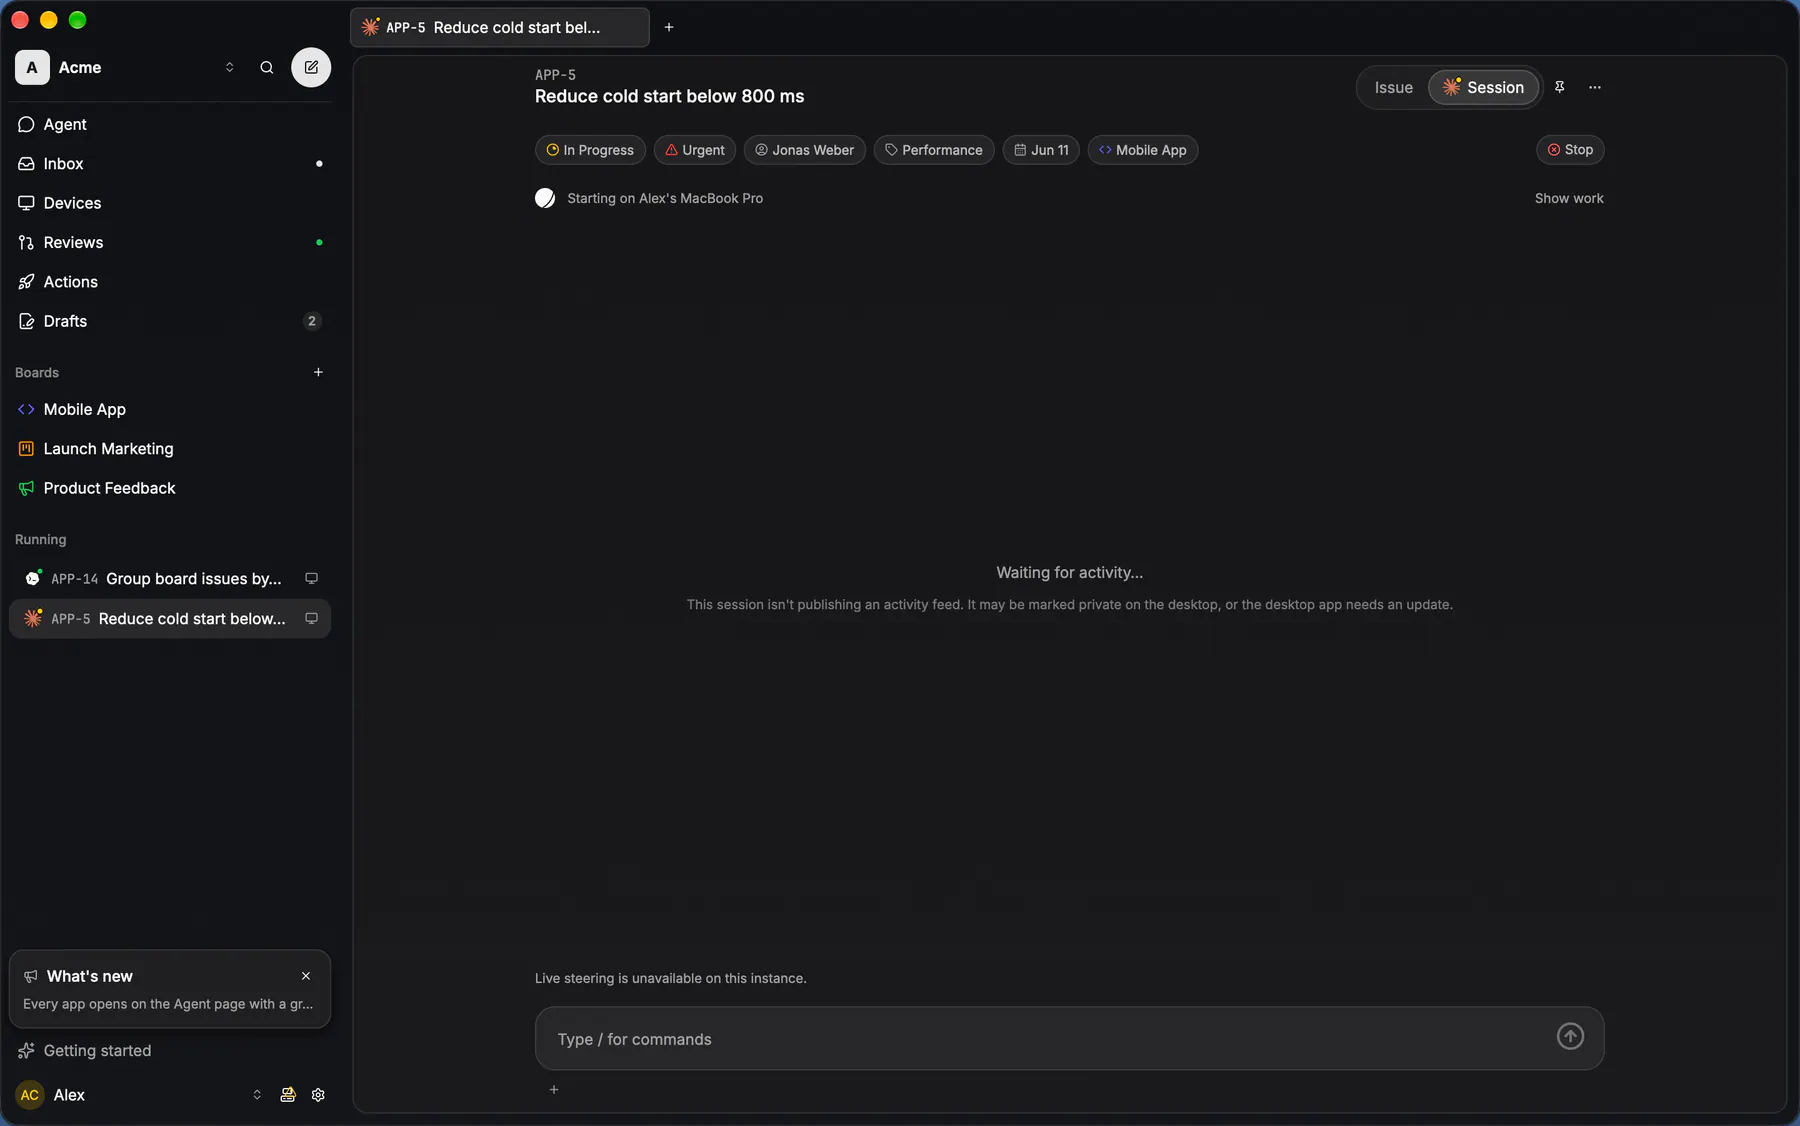
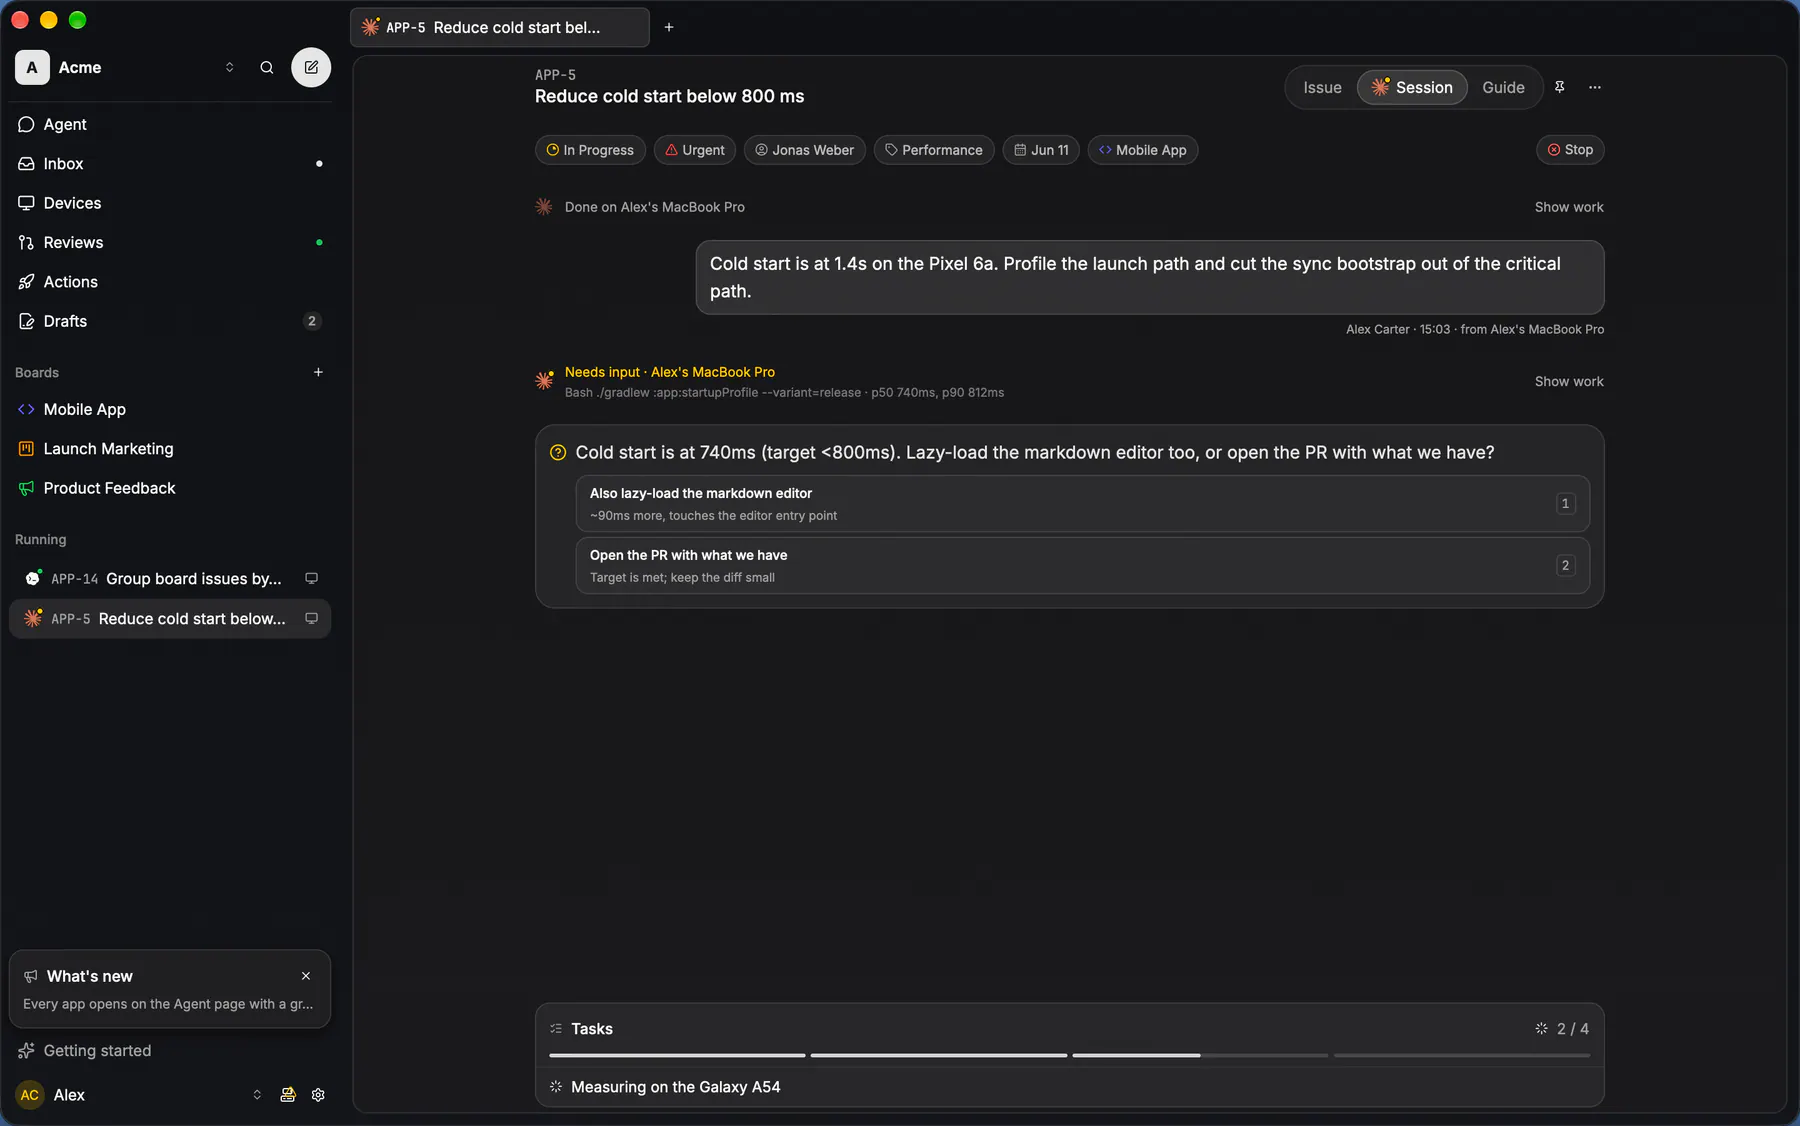
Desktop: a session tab that exists at boot dials the relay once an account is active (it stayed unavailable forever); desktop steering, work-card and comment-call-card captures

diff --git a/packages/shots/src/affected.test.ts b/packages/shots/src/affected.test.ts
@@ -136,12 +136,11 @@ describe(`desktop attribution`, () => {
   test(`the session screen narrows to the session it draws`, () => {
     // `_screen` is a wrapper suffix like `_dialog`: `session_screen.rs` is the
     // steering view's own module, not the auth glue `session.rs` names.
-    // EXP-1204: `run-changes` is the same screen on its Diff face, so it
-    // rides along; nothing else does. (EXP-1259's transcript cards,
-    // `work-card` & co, have no desktop drive while the viewer cannot dial
-    // from a boot-opened tab; see their catalog notes.)
+    // EXP-1204: `run-changes` is the same screen on its Diff face, and
+    // EXP-1259's `work-card` and `comment-call-card` are its transcript with
+    // Show work on, so they ride along; nothing else does.
     const result = scope(`apps/desktop/crates/ui/src/session_screen.rs`)
-    expect(views(result, `desktop`)).toEqual([`steering`, `run-changes`])
+    expect(views(result, `desktop`)).toEqual([`steering`, `work-card`, `comment-call-card`, `run-changes`])
   })
 
   test(`a component reused across screens still widens`, () => {
@@ -705,8 +704,9 @@ describe(`fail-safe`, () => {
     })
     expect(named.broad).toEqual([])
     // EXP-1204: the two ui modules also draw `run-changes` (the run's Diff
-    // face); the engine and feed files alone claim the feed-drawn shot.
-    expect(named.byPlatform.get(`desktop`)).toEqual([`steering`, `run-changes`])
+    // face) and EXP-1259's transcript cards (Show work on); the engine and
+    // feed files alone claim the feed-drawn shots.
+    expect(named.byPlatform.get(`desktop`)).toEqual([`steering`, `work-card`, `comment-call-card`, `run-changes`])
     const feedOnly = affectedScope({
       changedFiles: [
         `apps/desktop/crates/steer/src/viewer.rs`,
@@ -715,7 +715,7 @@ describe(`fail-safe`, () => {
       platforms: [`desktop`],
       includeMissing: false,
     })
-    expect(feedOnly.byPlatform.get(`desktop`)).toEqual([`steering`])
+    expect(feedOnly.byPlatform.get(`desktop`)).toEqual([`steering`, `work-card`, `comment-call-card`])
 
     // A grid picker rides the feed AND draws into the PTY grid, so it claims
     // both views rather than narrowing to one of them.

diff --git a/packages/shots/src/affected.ts b/packages/shots/src/affected.ts
@@ -287,11 +287,12 @@ const DESKTOP_FAMILIES: { test: RegExp; views: RegExp; why: string }[] = [
     // the steer crate's viewer/feed/wire types, and the two ui modules that
     // draw the tab (`session_screen.rs` renders it, `steer_viewer.rs` is the
     // relay-fed feed behind it when this process hosts no engine — which is
-    // exactly how the shot is captured, EXP-732). EXP-1259: `work-card` is
-    // the same session's transcript (Show work on), its cards built off the
-    // same feed.
+    // exactly how the shot is captured, EXP-732). EXP-1259: `work-card` and
+    // `comment-call-card` are the same session's transcript (Show work on),
+    // their cards built off the same feed (`script-card` has no desktop
+    // drive: its card sits above the fold).
     test: /^apps\/desktop\/crates\/(engine\/src\/|steer\/src\/(viewer|feed|frames|journal)\.rs)/,
-    views: /^(steering|work-card)$/,
+    views: /^(steering|work-card|comment-call-card)$/,
     why: `the coding-session screen and its feed`,
   },
   {
@@ -299,9 +300,10 @@ const DESKTOP_FAMILIES: { test: RegExp; views: RegExp; why: string }[] = [
     // is the SAME screen on its Diff face (`steer_viewer.rs`'s
     // `load_pr_changes` fetches an issue-less run's PR files, `session_screen`
     // frames it), so a change to either claims both shots; the engine and the
-    // feed above never reach that face.
+    // feed above never reach that face. EXP-1259: the transcript's cards
+    // (Show work on) are drawn by the same two modules.
     test: /^apps\/desktop\/crates\/ui\/src\/(session_screen|steer_viewer)\.rs/,
-    views: /^(steering|run-changes)$/,
+    views: /^(steering|run-changes|work-card|comment-call-card)$/,
     why: `the coding-session screen on both its faces`,
   },
   {

diff --git a/packages/shots/src/capture-all.ts b/packages/shots/src/capture-all.ts
@@ -134,6 +134,7 @@ const FLEET_VIEWS = new Set([
   `composer-menu`,
   `steering`,
   `work-card`,
+  `comment-call-card`,
   `action-page`,
   `action-create`,
   `action-triggers`,

diff --git a/apps/desktop/crates/ui/src/steer_viewer.rs b/apps/desktop/crates/ui/src/steer_viewer.rs
@@ -326,6 +326,35 @@ impl FeedSource {
     }
 }
 
+/// The detail a `Remote` view shows while it has nothing to dial with (no
+/// steer runtime, nobody signed in). A relay that is OFF answers the mint
+/// with the same words from the viewer task, so both read alike.
+const STEER_UNAVAILABLE_DETAIL: &str = "Live steering is unavailable on this instance.";
+
+/// A `Remote` view built before an account is active (a session tab that
+/// exists at boot: a restored layout, `EXP_DEV_SCREEN=session:<id>`) cannot
+/// dial yet. It keeps the feed's sender here and retries on every session
+/// edge until a dial succeeds; after that the socket owns reconnects and
+/// this stays empty.
+struct PendingDial(Option<flume::Sender<ViewerEvent>>);
+
+impl PendingDial {
+    fn is_pending(&self) -> bool {
+        self.0.is_some()
+    }
+
+    /// Dial with a clone of the sender. A failed attempt keeps it for the
+    /// next edge; a successful one consumes it, so a source dials ONCE.
+    fn attempt<H>(
+        &mut self,
+        dial: impl FnOnce(flume::Sender<ViewerEvent>) -> Option<H>,
+    ) -> Option<H> {
+        let handle = dial(self.0.as_ref()?.clone())?;
+        self.0 = None;
+        Some(handle)
+    }
+}
+
 /// EXP-895 — the fallback files for a run that published no diff, and the
 /// `issue:has-pr` key they were fetched for (a re-point or a PR opening
 /// re-fetches; a repaint never does).
@@ -382,6 +411,9 @@ pub(crate) struct SteerSessionView {
     feed: SteerFeed,
     /// EXP-746: what drives the feed. The relay handle lives inside it.
     source: FeedSource,
+    /// A `Remote` source with no handle yet: dialled once an account is
+    /// active (see [`PendingDial`]).
+    pending_dial: PendingDial,
     /// EXP-1051: whether the usage sheet's context-window LEGEND is unfolded.
     /// View state, not run state: the bar and its headline are always there,
     /// the per-layer breakdown is one click away and stays where the reader
@@ -710,6 +742,9 @@ impl SteerSessionView {
             // viewer's.
             subscriptions.push(cx.observe(&shared_state, |this, _, cx| {
                 this.note_network_edge(cx);
+                // …and the session edge itself: a tab built before anyone
+                // was signed in dials the moment an account is active.
+                this.dial_pending(cx);
             }));
         }
         // …#3: the window came forward — the desktop's `visibilitychange`.
@@ -743,6 +778,7 @@ impl SteerSessionView {
             row: None,
             feed: SteerFeed::new(),
             source,
+            pending_dial: PendingDial(None),
             context_legend_open: false,
             phase: ViewerPhase::Connecting,
             connected: false,
@@ -852,15 +888,9 @@ impl SteerSessionView {
         // Only the relay source dials — and only when the caller did not hand
         // one in. A local source subscribes to its engine instead: same
         // reducer, same rendering, no socket.
-        if let FeedSource::Remote { handle } = &mut this.source {
-            if handle.is_none() {
-                *handle = spawn_viewer(&session_id, events_tx, cx);
-            }
-            if handle.is_none() {
-                this.phase = ViewerPhase::Unauthorized {
-                    detail: Some("Live steering is unavailable on this instance.".to_string()),
-                };
-            }
+        if let FeedSource::Remote { handle: None } = &this.source {
+            this.pending_dial = PendingDial(Some(events_tx));
+            this.dial_pending(cx);
         }
         // EXP-773: a journal source is the whole transcript, already on disk.
         // Fold it into the SAME reducer the wire feeds, then mark the run
@@ -1694,6 +1724,33 @@ impl SteerSessionView {
         let offline = sync_offline(cx);
         if std::mem::replace(&mut self.sync_offline, offline) && !offline {
             self.wake("network back");
+        }
+    }
+
+    /// Dial a `Remote` source that has no socket yet. Until it can (no
+    /// steer runtime, nobody signed in) the view says steering is
+    /// unavailable; the first successful dial clears that back to
+    /// `Connecting`, and from there the viewer task reports the relay's own
+    /// answer (a relay that is off says the same words, for good).
+    fn dial_pending(&mut self, cx: &mut gpui::Context<Self>) {
+        if !self.pending_dial.is_pending() {
+            return;
+        }
+        let FeedSource::Remote { handle } = &mut self.source else {
+            return;
+        };
+        let session_id = self.session_id.clone();
+        match self.pending_dial.attempt(|tx| spawn_viewer(&session_id, tx, cx)) {
+            Some(dialled) => {
+                *handle = Some(dialled);
+                self.phase = ViewerPhase::Connecting;
+                cx.notify();
+            }
+            None => {
+                self.phase = ViewerPhase::Unauthorized {
+                    detail: Some(STEER_UNAVAILABLE_DETAIL.to_string()),
+                };
+            }
         }
     }
 
@@ -7257,7 +7314,7 @@ impl SteerSessionView {
             ViewerPhase::Unauthorized { detail } => banners.push(banner(
                 detail
                     .clone()
-                    .unwrap_or_else(|| "Live steering is unavailable on this instance.".to_string()),
+                    .unwrap_or_else(|| STEER_UNAVAILABLE_DETAIL.to_string()),
             )),
             ViewerPhase::Reconnecting => banners.push(banner("Connection lost.".to_string())),
             ViewerPhase::Starting if !self.feed.is_empty() => banners.push(banner(
@@ -8872,6 +8929,34 @@ mod tests {
     }
 
     use super::*;
+
+    // ── A session tab that exists at boot dials once an account is active ──
+
+    #[test]
+    fn a_pending_dial_retries_until_it_succeeds_then_never_again() {
+        let (tx, rx) = flume::unbounded::<ViewerEvent>();
+        let mut pending = PendingDial(Some(tx));
+        // Boot: nobody signed in, the dial has nothing to dial with.
+        assert_eq!(pending.attempt(|_| None::<()>), None);
+        assert!(pending.is_pending(), "a failed dial keeps the sender for the next edge");
+        // The account edge: the dial gets a live sender into the feed.
+        let dialled = pending.attempt(|tx| {
+            tx.send(ViewerEvent::Phase(ViewerPhase::Live)).ok()?;
+            Some("handle")
+        });
+        assert_eq!(dialled, Some("handle"));
+        assert!(matches!(rx.try_recv(), Ok(ViewerEvent::Phase(ViewerPhase::Live))));
+        assert!(!pending.is_pending());
+        // Later session edges never dial a second socket.
+        assert_eq!(pending.attempt(|_| -> Option<&str> { panic!("dialled twice") }), None);
+    }
+
+    #[test]
+    fn a_source_that_never_waited_has_nothing_to_dial() {
+        let mut pending = PendingDial(None);
+        assert!(!pending.is_pending());
+        assert_eq!(pending.attempt(|_| -> Option<()> { panic!("dialled") }), None);
+    }
 
     // ── EXP-698: `[Image #N]` pills in a sent message ──────────────────────
 
